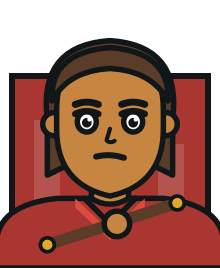
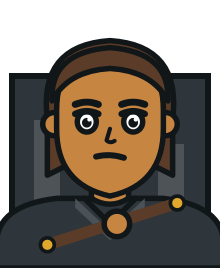
Swap Iona Vance and Mara Voss between their factions
Vance moves to the Iron Dominion and Voss to the Meridian Coalition.
Faction is presentation-only, so no doctrine number, power or balance
figure moves, and a one-for-one trade leaves the pinned 6 / 6 / 5 / 5
roster counts untouched. The two portraits are regenerated because the
bust reads its backdrop from CommanderVisuals.

Claude-Session: https://claude.ai/code/session_01N4LfVGh5tovNYv3Mn6jeRV

diff --git a/CLAUDE.md b/CLAUDE.md
@@ -38,7 +38,9 @@ that must survive any change; the full rationale, milestones and risk registers 
   4, and the full balance gate is 18 × 18 × five scenarios × four seeds — both as that plan closed
   them; `more-commanders-plan.html` has since seated Sera Lark with the Aurora Compact (MC1),
   Iona Vance with the Meridian Coalition (MC2), Ivar Thorne with the Verdant League (MC3) and
-  Radek Morn with the Iron Dominion (MC4), so they now read 6 / 6 / 5 / 5 over 22 × 22.
+  Radek Morn with the Iron Dominion (MC4), so they now read 6 / 6 / 5 / 5 over 22 × 22. Iona
+  Vance and Mara Voss have since swapped factions — Vance is Iron Dominion, Voss is Meridian
+  Coalition; faction is presentation-only, so the counts and every doctrine number are unmoved.
 - `more-commanders-plan.html` — four more generals, MC1–MC5. Three of them (Lark, Vance, Thorne)
   touch no shared file at all, which is the commanders plan's D1 holding; the fourth is the whole
   cost of the plan and the one entry worth reading before touching a power. D2: **a power may name
@@ -1093,7 +1095,7 @@ that must survive any change; the full rationale, milestones and risk registers 
    **pure GDScript classes with no `Node` dependency**. Scenes only render state and animate
    changes. This keeps rules unit-testable and lets the AI simulate moves cheaply.
    - **Nothing in `core/` may reference a `Node`, a scene, `get_node`, `SceneTree`, or anything
-     under `scenes/`.** If you reach for a Node inside `core/`, you're in the wrong layer.
+	 under `scenes/`.** If you reach for a Node inside `core/`, you're in the wrong layer.
 2. **Data-driven via Resources.** Unit stats, terrain properties, and the damage chart are
    `.tres` `Resource` files under `data/`, not constants in code. Balancing = editing data;
    adding a unit = adding a file. The damage chart is one resource holding two attacker × defender
